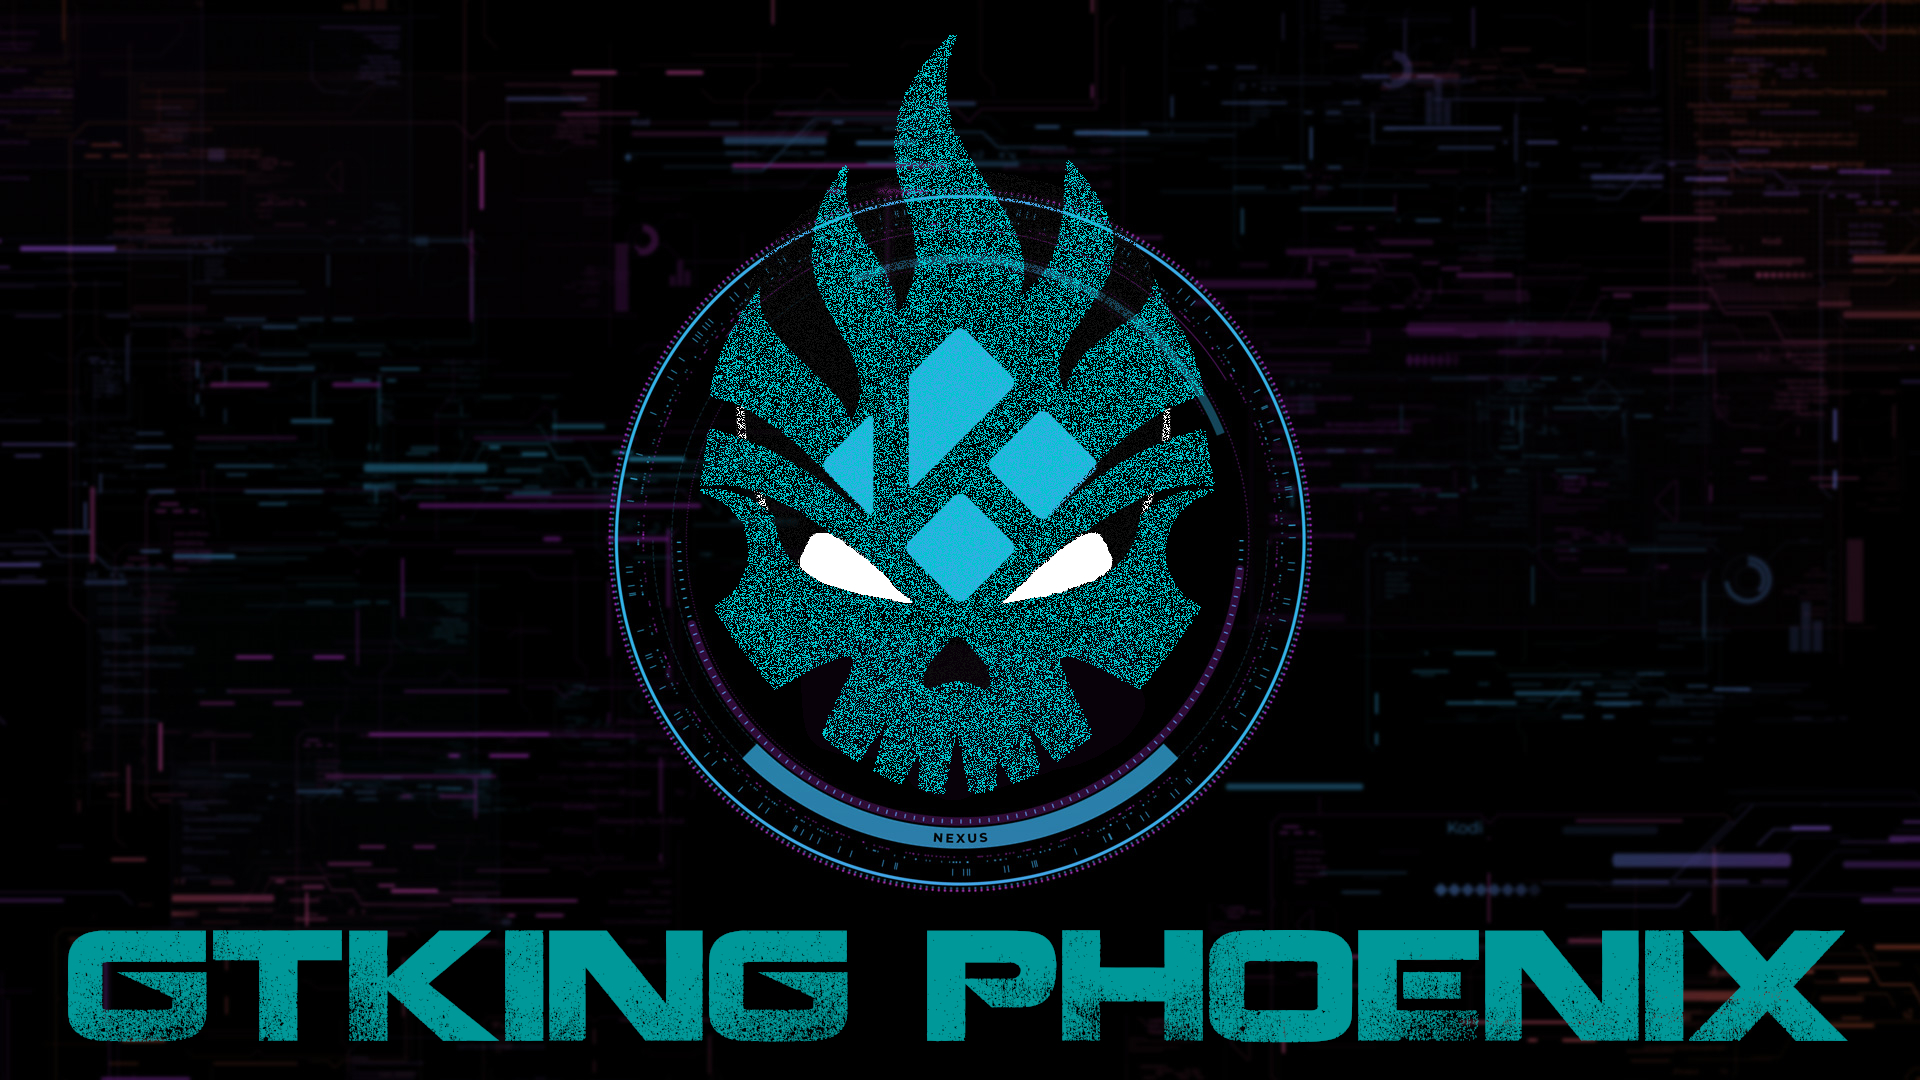
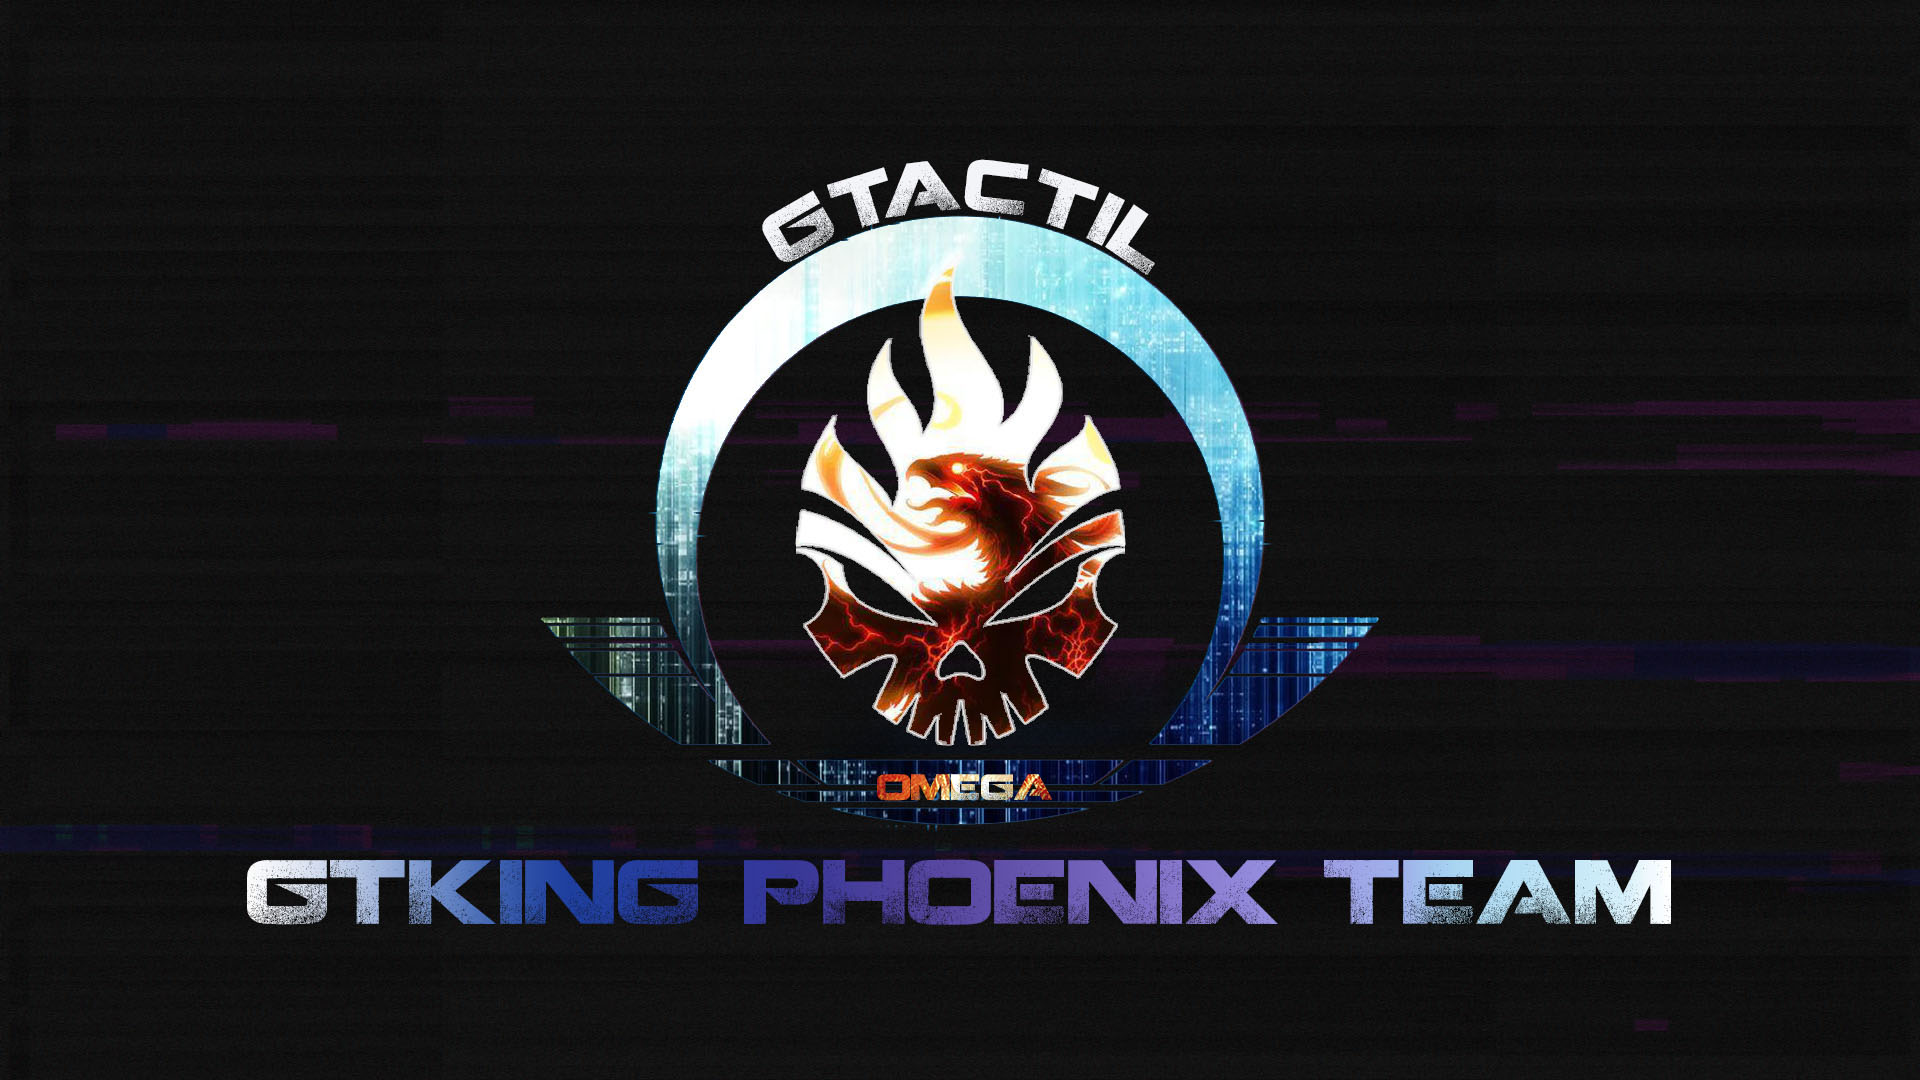
1

diff --git a/README.md b/README.md
@@ -1,5 +1,8 @@
 # Repo-GTKing PHOENIX TEAM
 # Repo del grupo GTKing PHOENIX que no puede faltar para tu Kodi.
 
-# Matrix
-![img](https://i.imgur.com/ZyXs5H4.jpg)
+# Nexus
+![img](https://i.imgur.com/0lOaMP2.png)
+
+# Omega
+![img](https://i.imgur.com/GHIq0z9.png)
